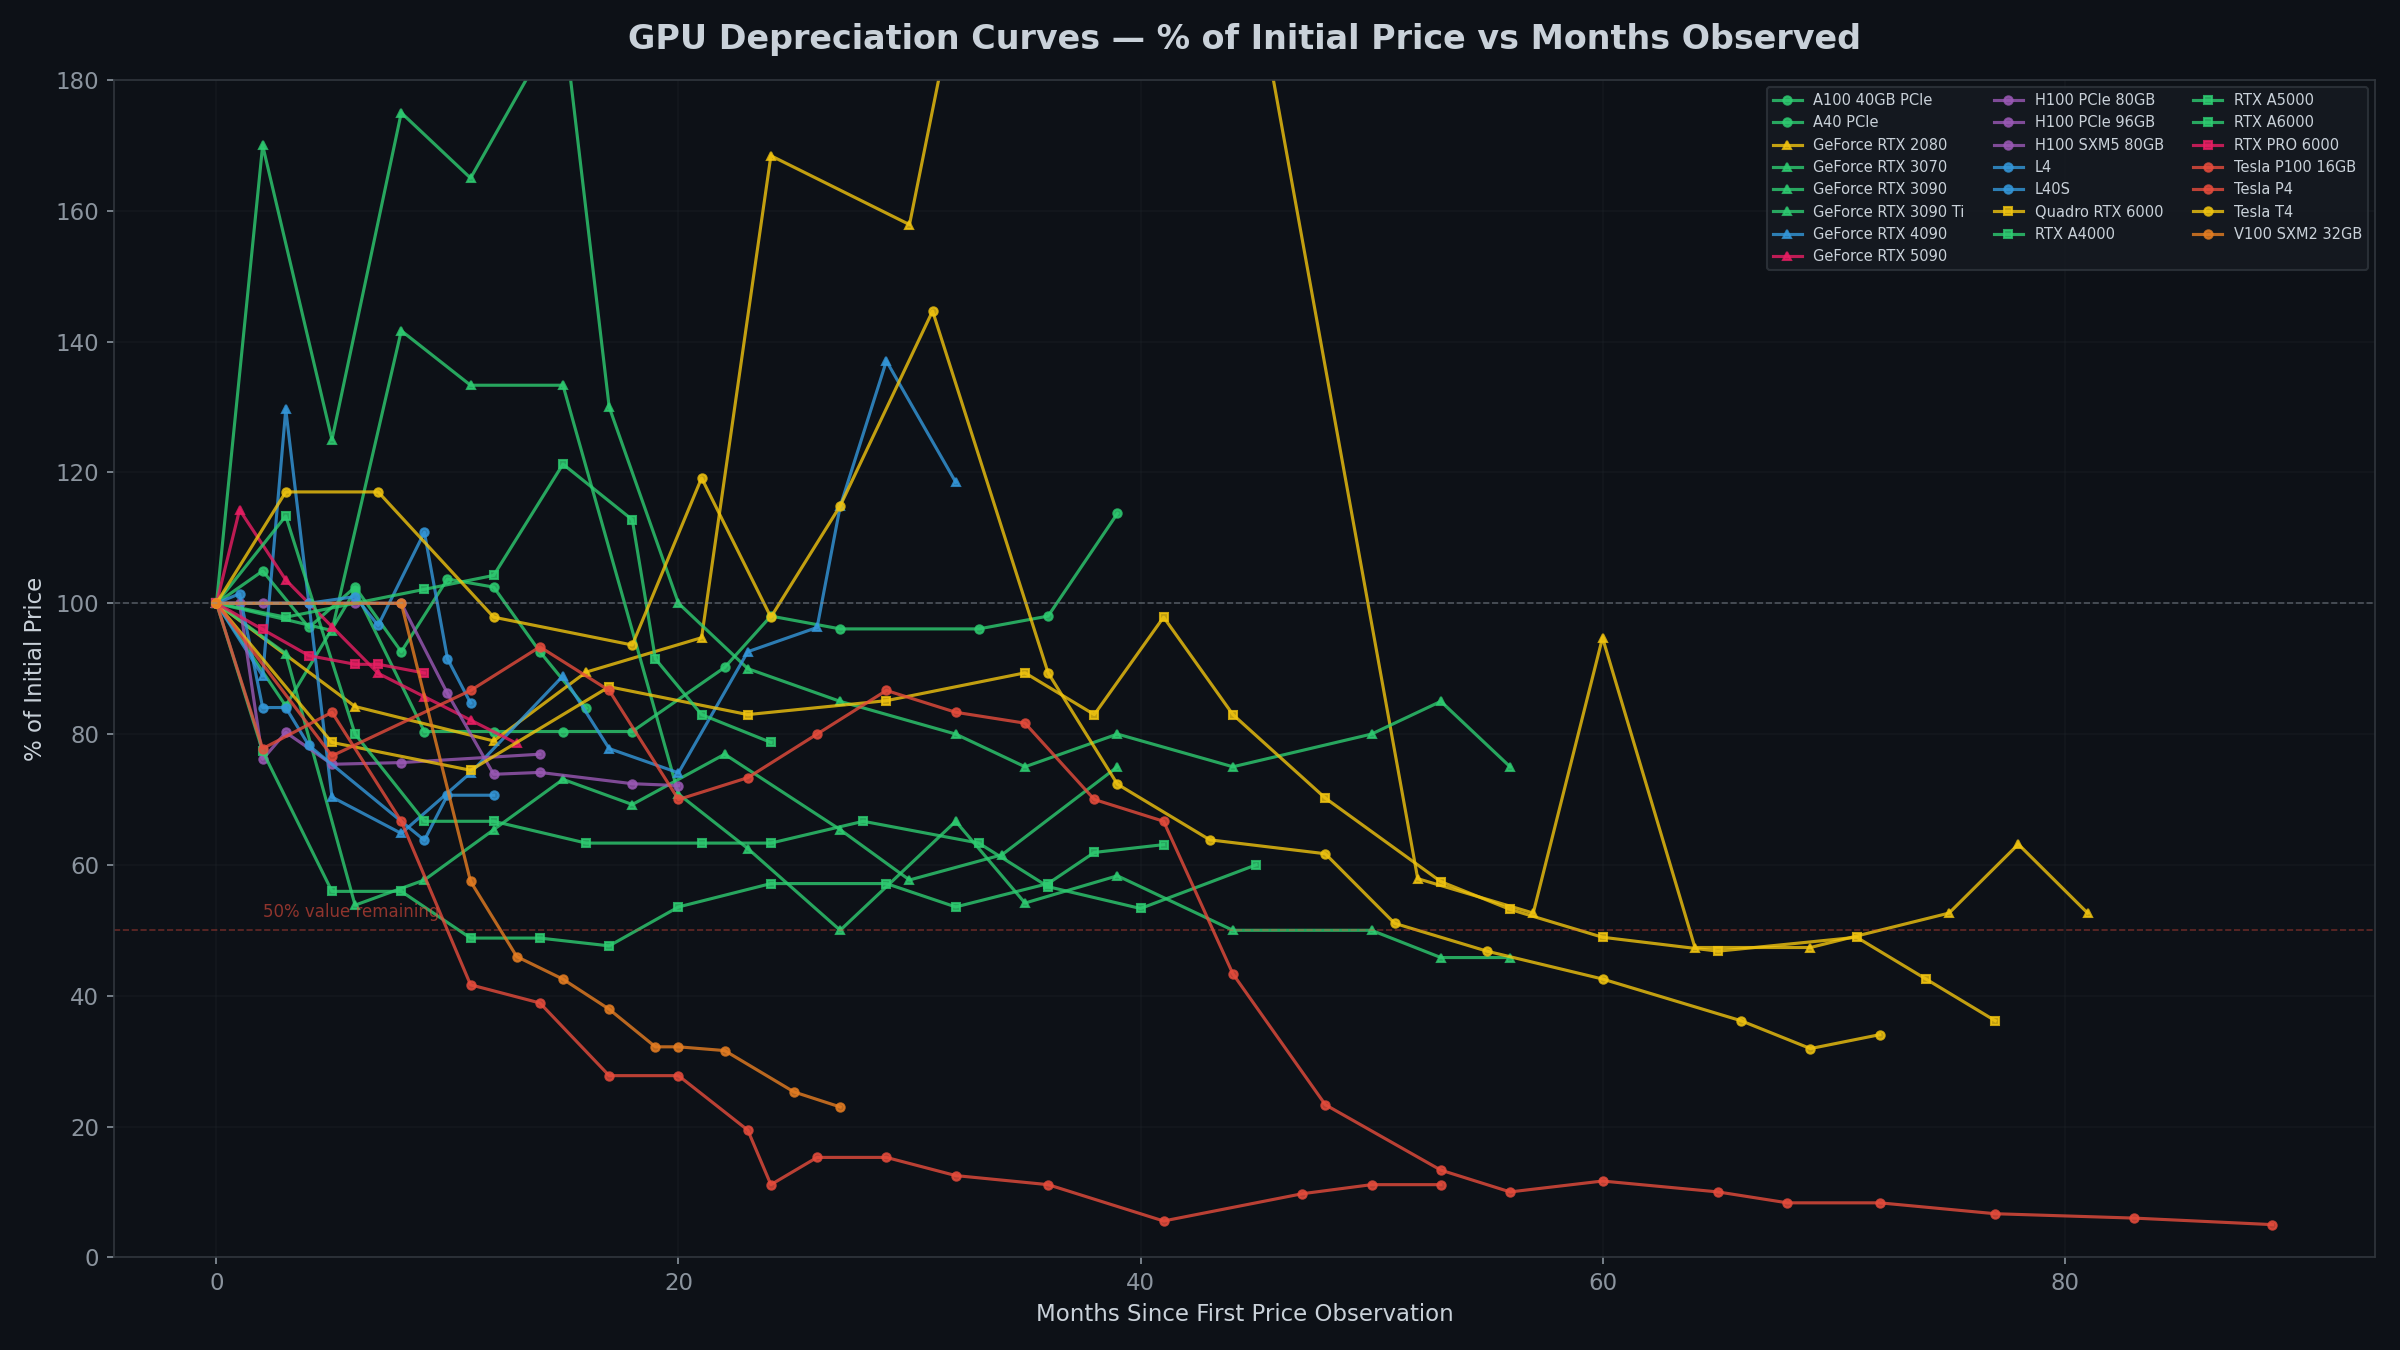
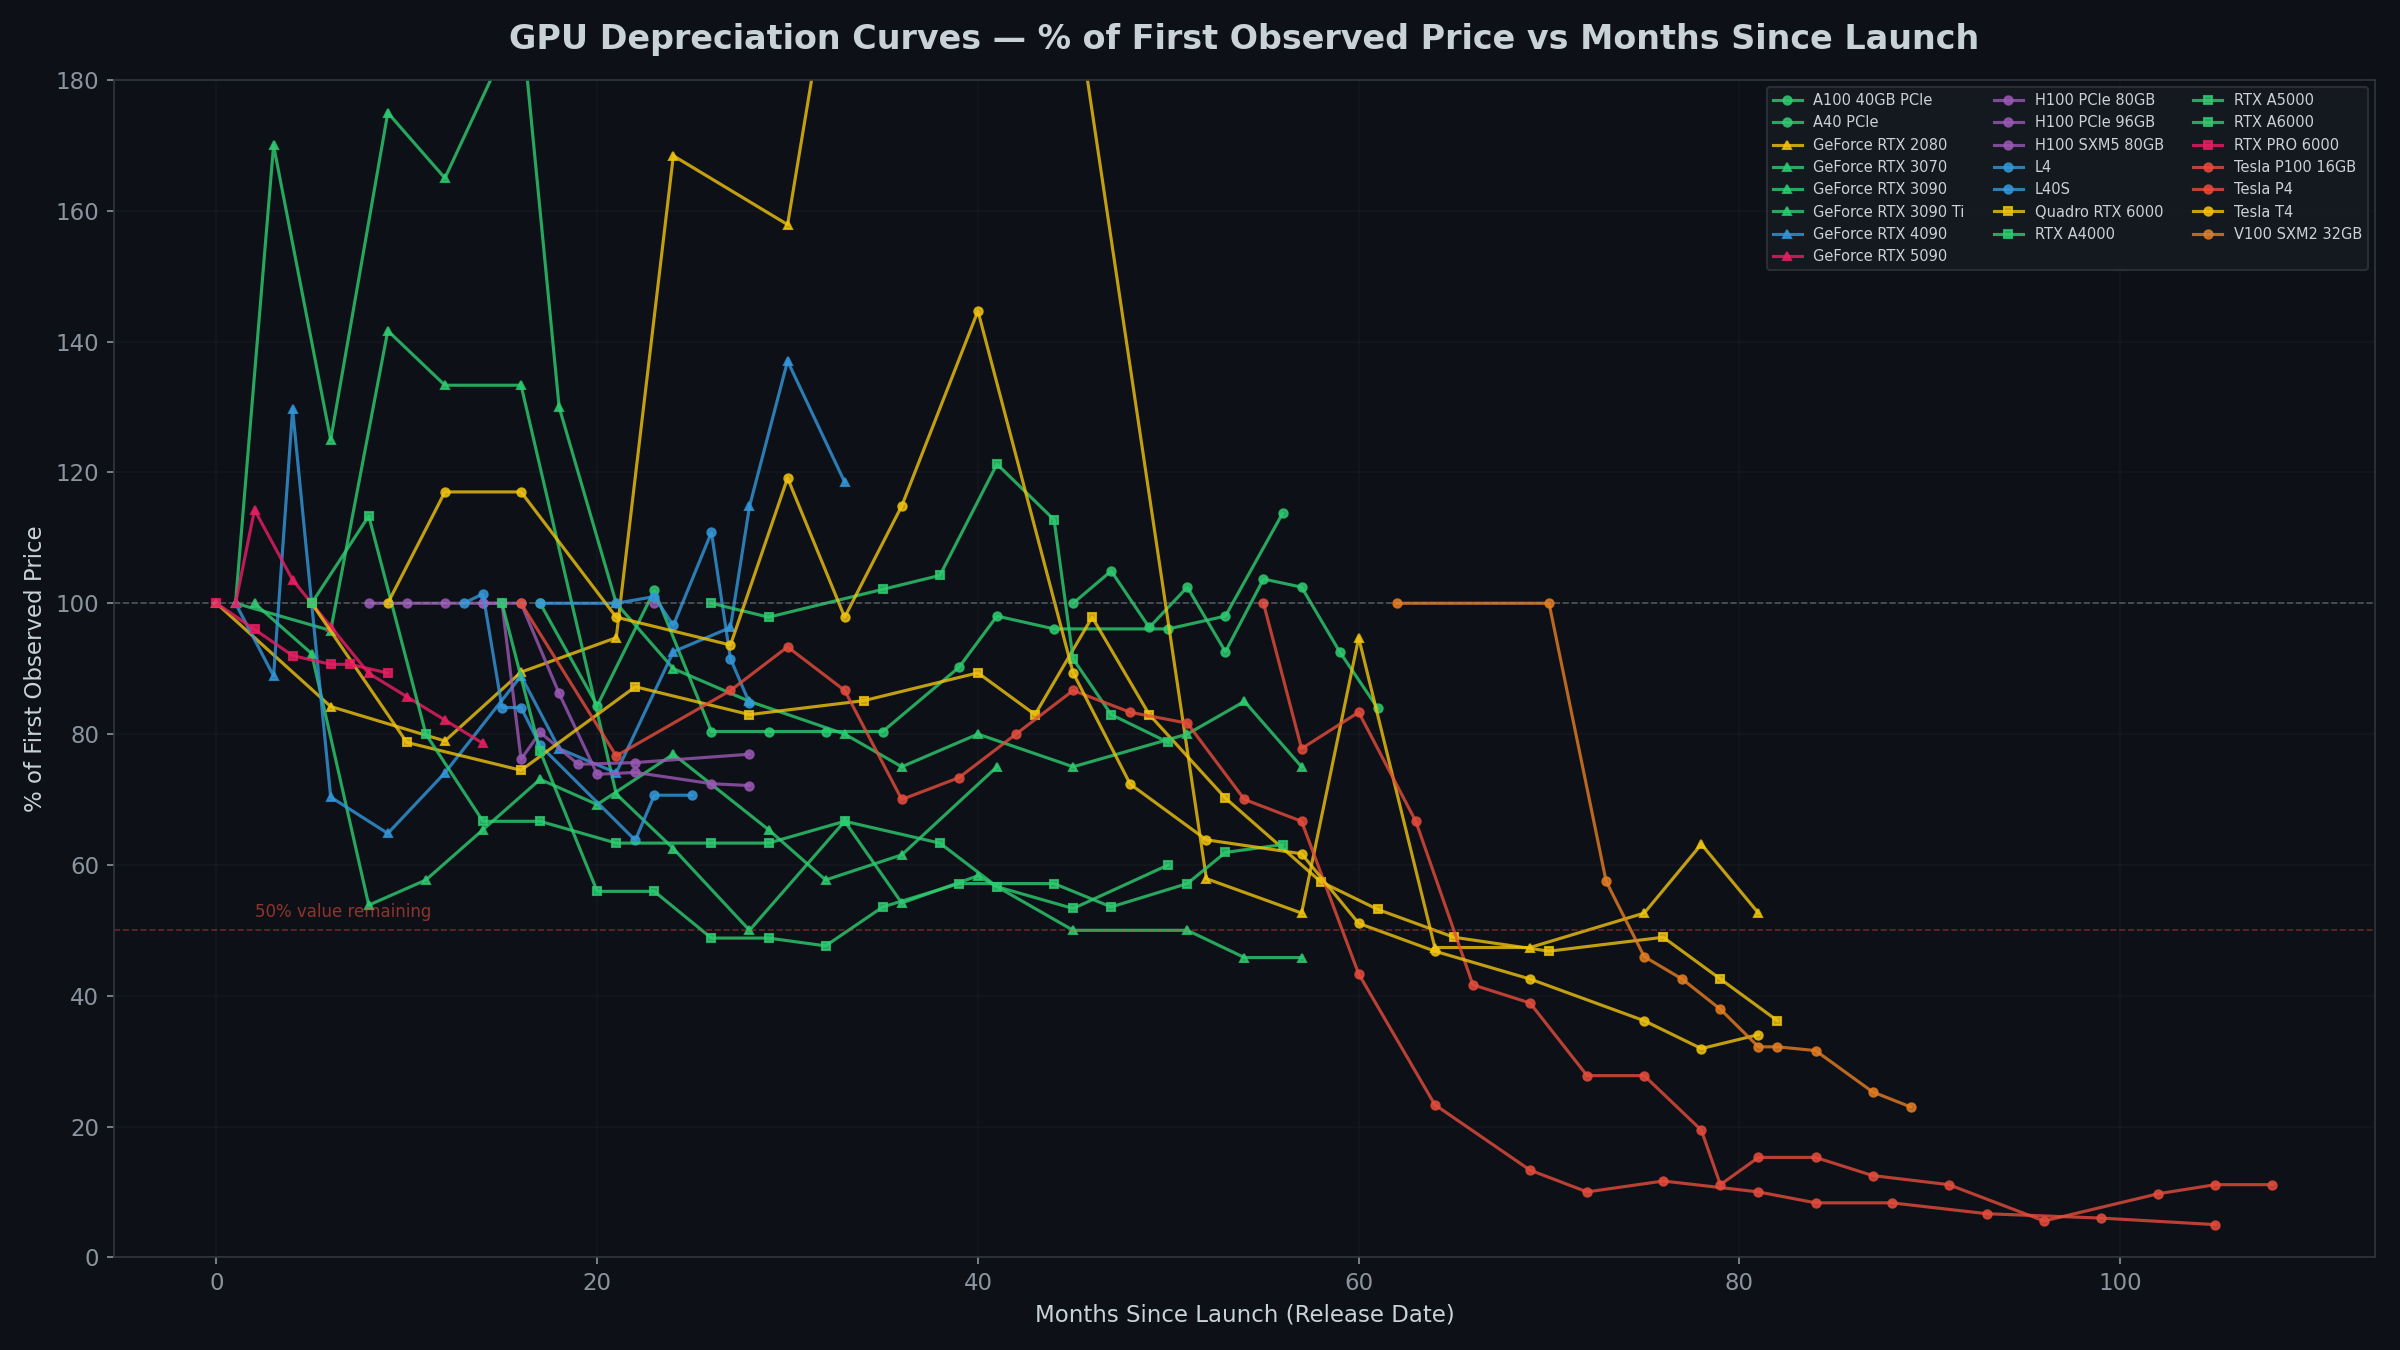
Use actual launch date for depreciation curves and age calculations
- Chart 02: x-axis now shows months since release date instead of
  months since first price observation
- Summary (build_summary_df): age_months now counts from release date,
  giving more accurate annual depreciation rates
- Chart 09 (generation boxplot): same fix for age calculation
- Titles and labels updated to reflect the change

diff --git a/src/charts.py b/src/charts.py
@@ -50,8 +50,7 @@ def chart_depreciation_curves(df: pd.DataFrame, out_dir: str):
         cat = grp["category"].iloc[0]
         first_price = grp["price"].iloc[0]
         pct = grp["price"] / first_price * 100
-        months = grp["months"] - grp["months"].iloc[0]
-        ax.plot(months, pct,
+        ax.plot(grp["months"], pct,
                 marker=CAT_MARKERS.get(cat, "o"), markersize=4,
                 color=GEN_COLORS.get(gen, "#888"),
                 label=gpu, alpha=0.8, linewidth=1.5)
@@ -59,10 +58,10 @@ def chart_depreciation_curves(df: pd.DataFrame, out_dir: str):
     ax.axhline(100, color="#8b949e", ls="--", lw=0.8, alpha=0.5)
     ax.axhline(50, color="#e74c3c", ls="--", lw=0.8, alpha=0.4)
     ax.text(2, 52, "50% value remaining", fontsize=8, color="#e74c3c", alpha=0.6)
-    ax.set_title("GPU Depreciation Curves — % of Initial Price vs Months Observed",
+    ax.set_title("GPU Depreciation Curves — % of First Observed Price vs Months Since Launch",
                  fontsize=16, fontweight="bold", pad=15)
-    ax.set_xlabel("Months Since First Price Observation")
-    ax.set_ylabel("% of Initial Price")
+    ax.set_xlabel("Months Since Launch (Release Date)")
+    ax.set_ylabel("% of First Observed Price")
     ax.set_ylim(0, 180)
     ax.grid(True, alpha=0.3)
     ax.legend(fontsize=7, ncol=3, loc="upper right")
@@ -283,7 +282,7 @@ def chart_generation_boxplot(df: pd.DataFrame, out_dir: str):
     for gpu, grp in df.sort_values("date").groupby("gpu"):
         first_price = grp["price"].iloc[0]
         latest_price = grp["price"].iloc[-1]
-        age_months = grp["months"].iloc[-1] - grp["months"].iloc[0]
+        age_months = grp["months"].iloc[-1]  # months since release date
         if age_months >= 6:
             annual_depr = (1 - latest_price / first_price) / (age_months / 12) * 100
             records.append({

diff --git a/src/data.py b/src/data.py
@@ -36,7 +36,7 @@ def build_summary_df(df: pd.DataFrame) -> pd.DataFrame:
         peak = grp["price"].max()
         latest = grp["price"].iloc[-1]
         first = grp["price"].iloc[0]
-        age_months = grp["months"].iloc[-1] - grp["months"].iloc[0]
+        age_months = grp["months"].iloc[-1]  # months since release date
         age_years = max(age_months / 12, 0.25)
         annual_depr = (1 - latest / first) / age_years * 100
 

diff --git a/REPORT.md b/REPORT.md
@@ -1,5 +1,5 @@
 # NVIDIA GPU Depreciation & Investment Analysis
-_Generated: 2026-03-16 12:47_
+_Generated: 2026-03-16 13:26_
 
 > **Purpose**: Evaluate whether NVIDIA GPUs hold value over time,
 > and what that means for investing in CRWV, NBIN, NVDA, and ORCL.
@@ -8,28 +8,28 @@ _Generated: 2026-03-16 12:47_
 
 | GPU | Generation | Age (yr) | Peak → Latest | Residual | Annual Depr |
 |-----|-----------|----------|---------------|----------|-------------|
-| Tesla P4 | Pascal | 7.4 | $3,000 → $150 | 5% | 13%/yr |
-| Tesla P100 16GB | Pascal | 4.4 | $3,600 → $400 | 11% | 20%/yr |
-| V100 SXM2 32GB | Volta | 2.2 | $8,700 → $2,000 | 23% | 34%/yr |
+| Tesla P4 | Pascal | 8.8 | $3,000 → $150 | 5% | 11%/yr |
+| Tesla P100 16GB | Pascal | 9.0 | $3,600 → $400 | 11% | 10%/yr |
+| V100 SXM2 32GB | Volta | 7.4 | $8,700 → $2,000 | 23% | 10%/yr |
 | GeForce RTX 2080 | Turing | 6.8 | $2,000 → $500 | 25% | 7%/yr |
-| Quadro RTX 6000 | Turing | 6.4 | $4,700 → $1,700 | 36% | 10%/yr |
-| Tesla T4 | Turing | 6.0 | $3,400 → $800 | 24% | 11%/yr |
-| RTX A6000 | Ampere | 3.4 | $8,400 → $5,300 | 63% | 11%/yr |
-| A100 40GB PCIe | Ampere | 1.3 | $8,500 → $6,800 | 80% | 12%/yr |
-| GeForce RTX 3090 | Ampere | 4.7 | $3,800 → $1,500 | 39% | 5%/yr |
-| GeForce RTX 3070 | Ampere | 4.7 | $1,700 → $550 | 32% | 12%/yr |
-| A40 PCIe | Ampere | 3.2 | $5,800 → $5,800 | 100% | -4%/yr |
-| RTX A4000 | Ampere | 3.8 | $1,700 → $900 | 53% | 11%/yr |
-| RTX A5000 | Ampere | 2.0 | $2,850 → $1,850 | 65% | 11%/yr |
-| GeForce RTX 4090 | Ada Lovelace | 2.7 | $3,700 → $3,200 | 86% | -7%/yr |
-| L40S | Ada Lovelace | 1.0 | $14,000 → $9,750 | 70% | 29%/yr |
-| GeForce RTX 3090 Ti | Ampere | 3.2 | $2,600 → $1,950 | 75% | 8%/yr |
-| H100 PCIe 80GB | Hopper | 1.7 | $34,800 → $25,100 | 72% | 17%/yr |
-| H100 PCIe 96GB | Hopper | 1.2 | $39,000 → $30,000 | 77% | 20%/yr |
-| L4 | Ada Lovelace | 0.9 | $3,270 → $2,500 | 76% | 17%/yr |
-| H100 SXM5 80GB | Hopper | 0.2 | $18,550 → $18,550 | 100% | 0%/yr |
+| Quadro RTX 6000 | Turing | 6.8 | $4,700 → $1,700 | 36% | 9%/yr |
+| Tesla T4 | Turing | 6.8 | $3,400 → $800 | 24% | 10%/yr |
+| RTX A6000 | Ampere | 4.7 | $8,400 → $5,300 | 63% | 8%/yr |
+| A100 40GB PCIe | Ampere | 5.1 | $8,500 → $6,800 | 80% | 3%/yr |
+| GeForce RTX 3090 | Ampere | 4.8 | $3,800 → $1,500 | 39% | 5%/yr |
+| GeForce RTX 3070 | Ampere | 4.8 | $1,700 → $550 | 32% | 11%/yr |
+| A40 PCIe | Ampere | 4.7 | $5,800 → $5,800 | 100% | -3%/yr |
+| RTX A4000 | Ampere | 4.2 | $1,700 → $900 | 53% | 10%/yr |
+| RTX A5000 | Ampere | 4.2 | $2,850 → $1,850 | 65% | 5%/yr |
+| GeForce RTX 4090 | Ada Lovelace | 2.8 | $3,700 → $3,200 | 86% | -7%/yr |
+| L40S | Ada Lovelace | 2.1 | $14,000 → $9,750 | 70% | 14%/yr |
+| GeForce RTX 3090 Ti | Ampere | 3.4 | $2,600 → $1,950 | 75% | 7%/yr |
+| H100 PCIe 80GB | Hopper | 2.3 | $34,800 → $25,100 | 72% | 12%/yr |
+| H100 PCIe 96GB | Hopper | 2.3 | $39,000 → $30,000 | 77% | 10%/yr |
+| L4 | Ada Lovelace | 2.3 | $3,270 → $2,500 | 76% | 7%/yr |
+| H100 SXM5 80GB | Hopper | 1.9 | $18,550 → $18,550 | 100% | 0%/yr |
 | RTX PRO 6000 | Blackwell | 0.8 | $7,500 → $6,700 | 89% | 14%/yr |
-| GeForce RTX 5090 | Blackwell | 1.1 | $3,200 → $2,200 | 69% | 20%/yr |
+| GeForce RTX 5090 | Blackwell | 1.2 | $3,200 → $2,200 | 69% | 18%/yr |
 
 ## 2. Three Phases of GPU Depreciation
 
